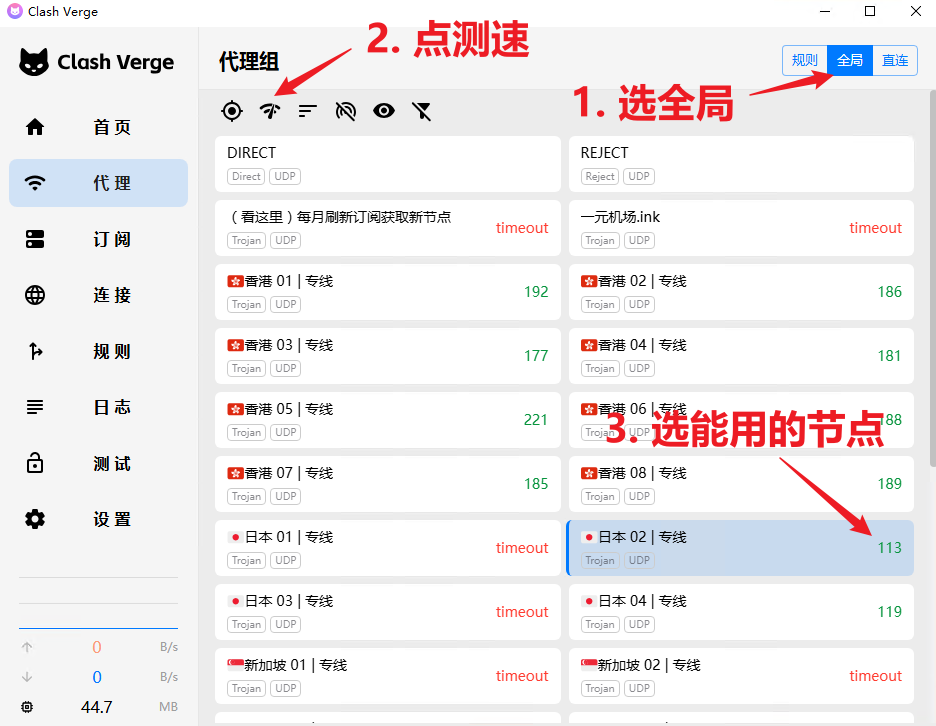
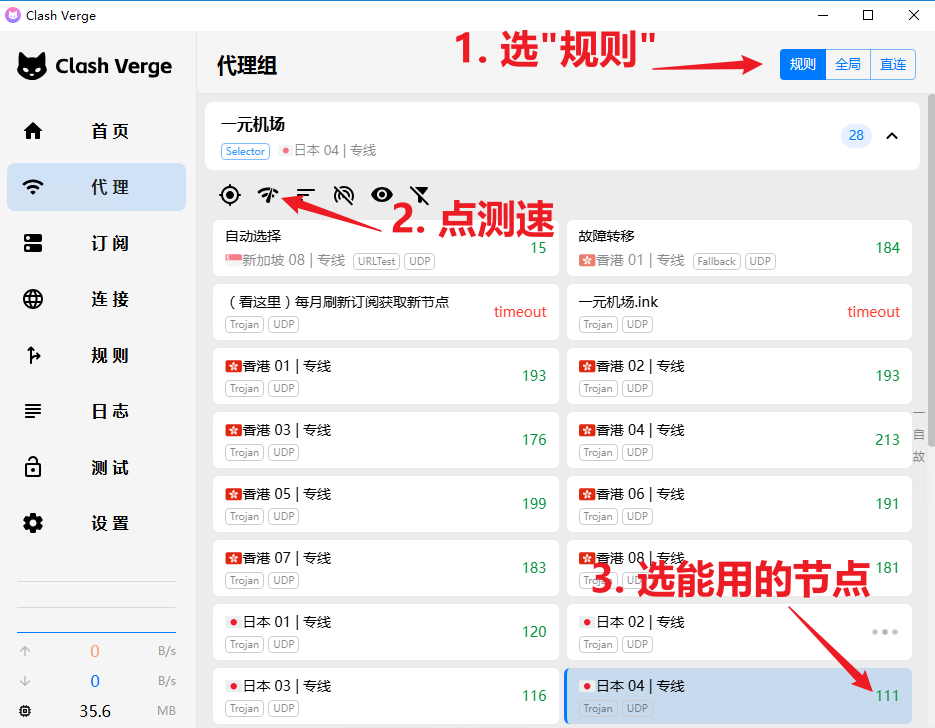
Add files via upload

diff --git a/docs/梯子使用教程.md b/docs/梯子使用教程.md
@@ -28,12 +28,12 @@ Clash切到刚才导入的订阅
 
 代理模式选"规则", 选择测速能用的节点(东南亚节点除外)  
 
-- ![alt text](image-59.png)  
+- ![alt text](image-60.png)  
 - **如果"规则"仍然出服务器错误就选"全局"**
 - **"规则"不行再选"全局"! 不要直接选全局!**
 
-开启"虚拟网卡模式(Tun)"
+开启"系统代理"
 
-- ![alt text](image-58.png)  
+- ![alt text](image-61.png)  
 
-梯子部署完毕 打开辅助登录器即可
+梯子配置完毕 打开软件登录器
